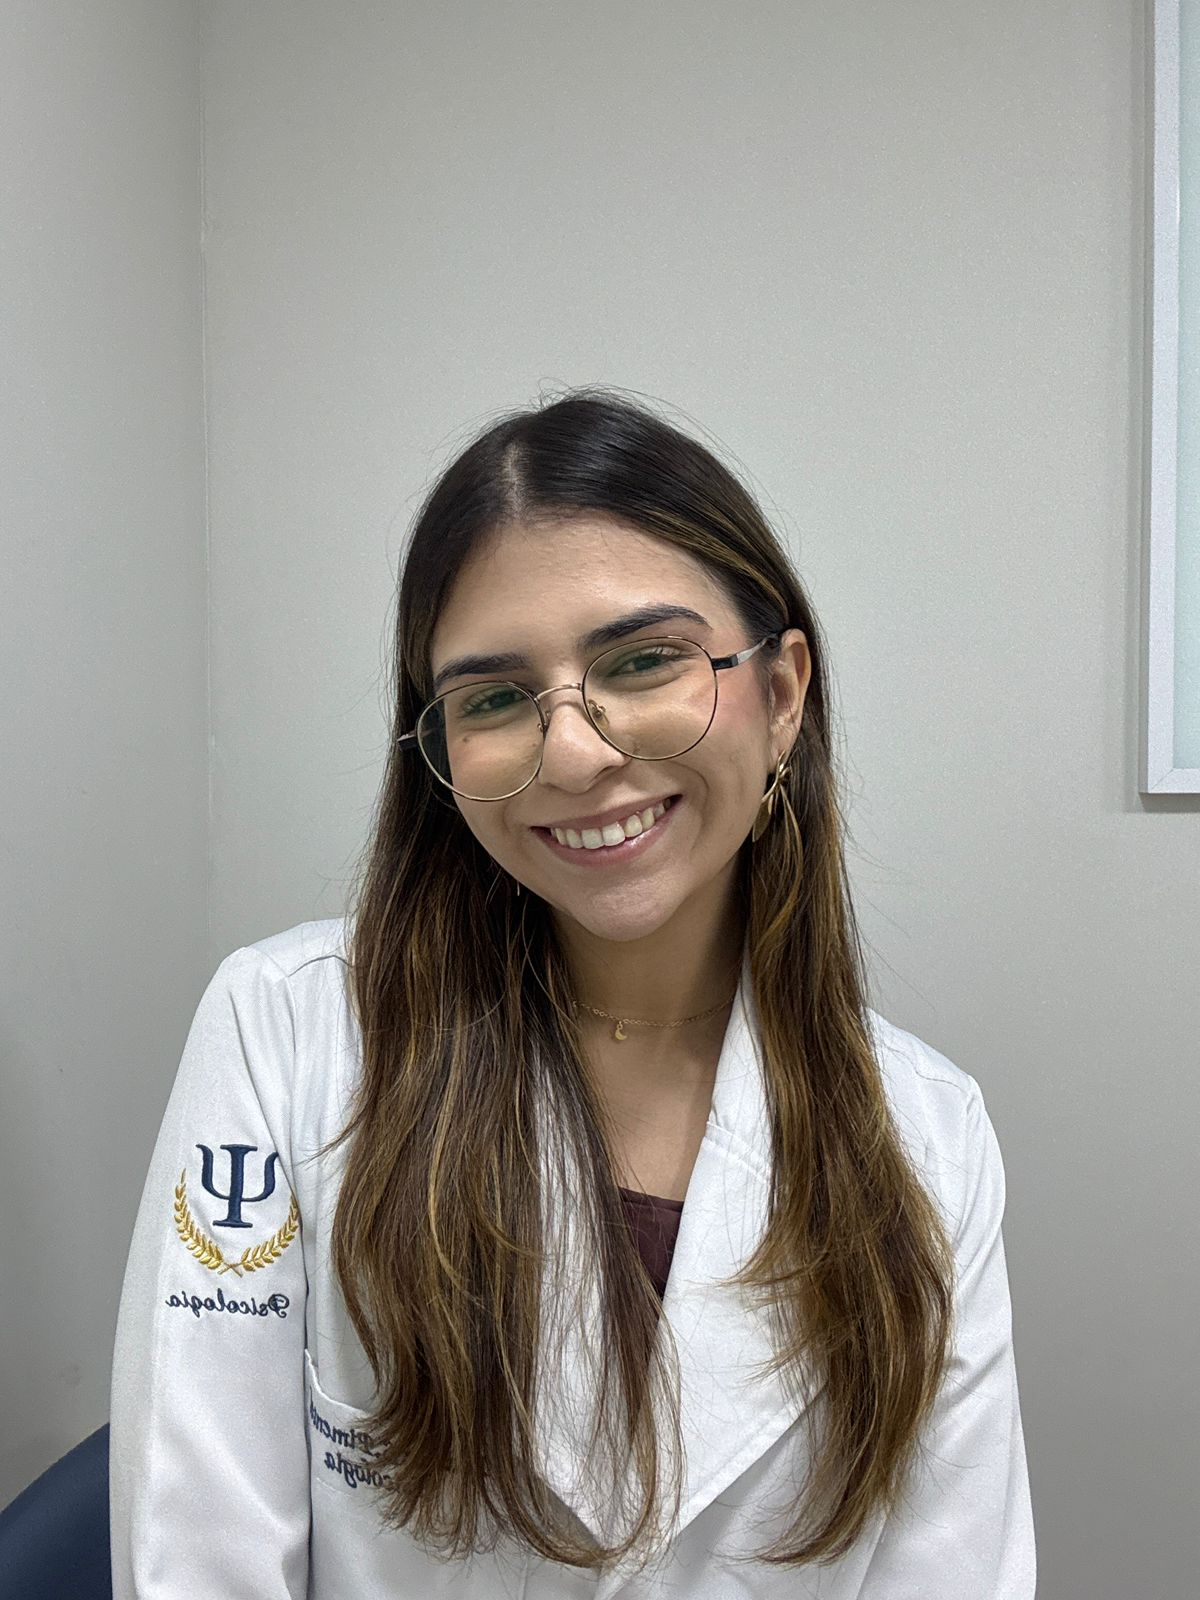
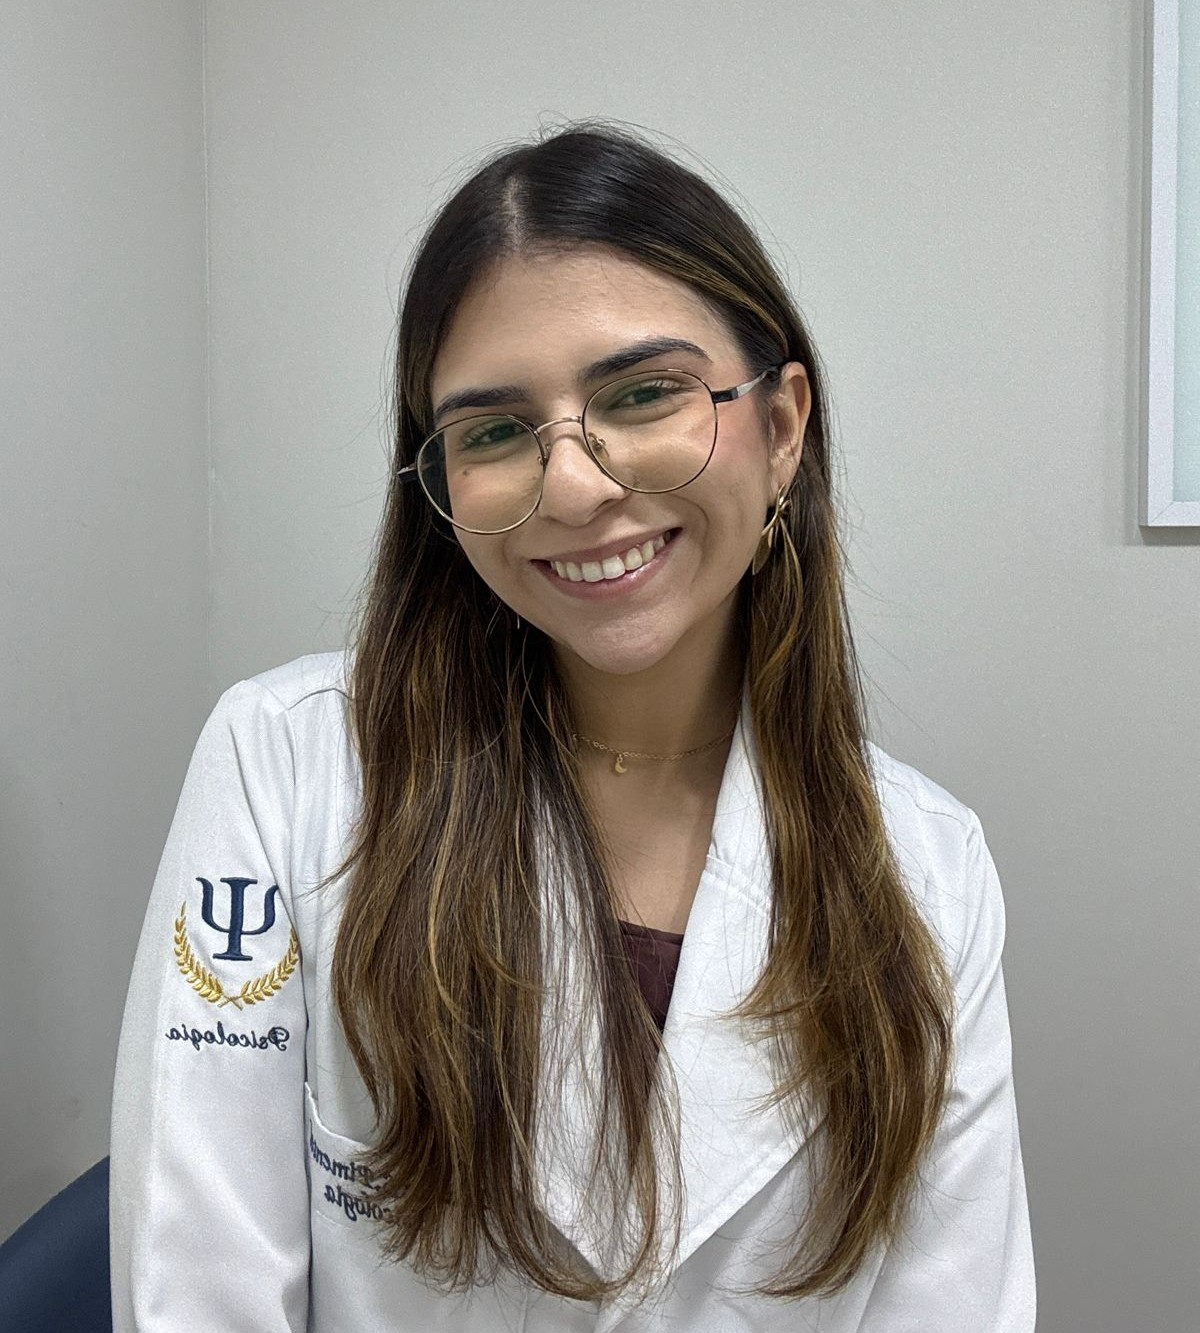
image up

diff --git a/src/components/sections/ServicesSection.jsx b/src/components/sections/ServicesSection.jsx
@@ -88,9 +88,9 @@ export default function ServicesSection() {
                                     className="wixui-rich-text__text"><span
                                         style={{fontFamily: 'bitter-v2,serif'}}
                                         className="wixui-rich-text__text">Realizo
-                                        atendimentos clínicos
-                                        online para adultos,
-                                        em qualquer lugar do mundo.</span></span></span>
+                                            atendimentos clínicos
+                                            online para adultos e adolescentes,
+                                            em qualquer lugar do mundo.</span></span></span>
                         </p>
                     </div>
                     <div id="comp-mkmmnk2v" className="comp-mkmmnk2v"
